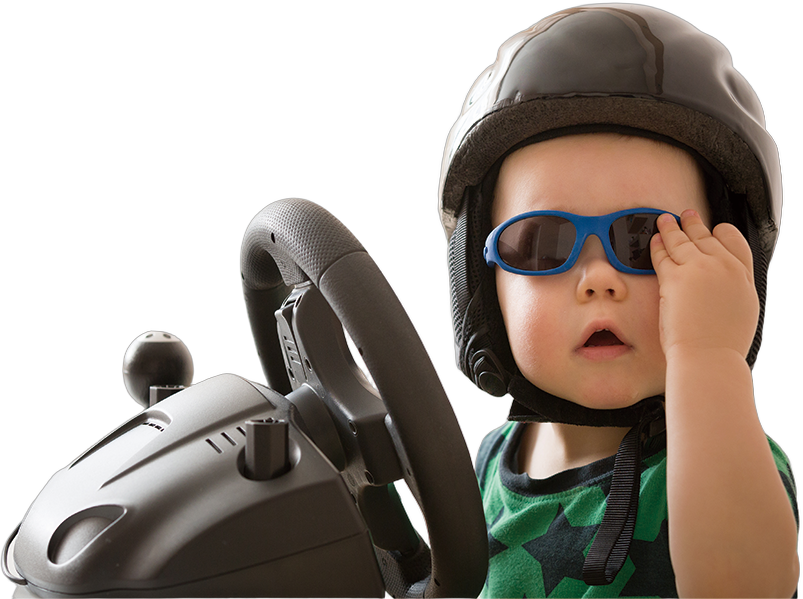
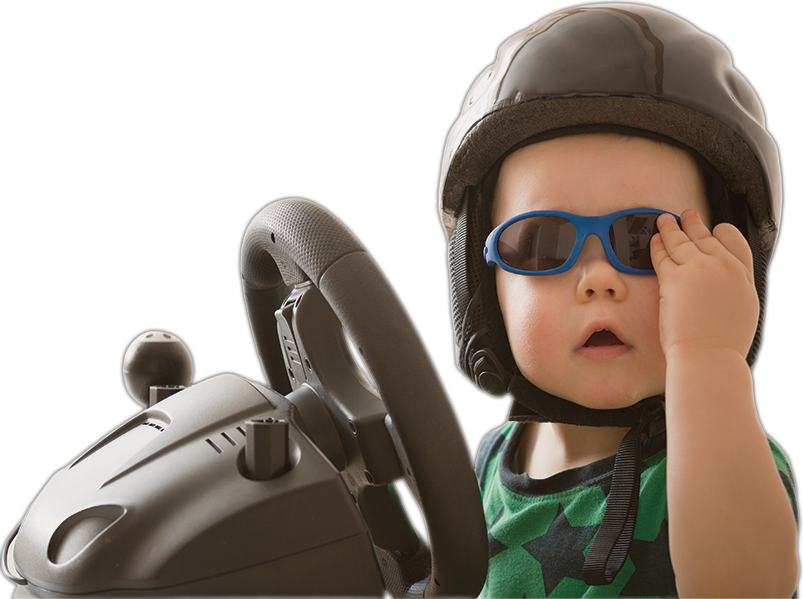
Blend the hero cutout into its background more naturally
The straight rembg cutout read as a pasted-on sticker against the
hero gradient - hard alpha edges and no color relationship to the
new background. Soften the alpha edges with a slight blur, warm-tint
the subject's RGB slightly toward the hero's mid-tone color (more in
shadows than highlights) so it picks up ambient color from the new
scene, and add a soft blurred radial glow behind the subject in CSS
so the transition from photo to gradient eases instead of cutting.

Claude-Session: https://claude.ai/code/session_01LK2AAhaCEyGtqXWWJm4WWi

diff --git a/css/style.css b/css/style.css
@@ -259,6 +259,7 @@ button { font-family: inherit; cursor: pointer; }
 .hero-stats div span { font-size: 13px; color: rgba(255,255,255,0.8); }
 
 .hero-visual {
+  position: relative;
   width: 100%;
   max-width: 460px;
   margin-left: auto;
@@ -267,13 +268,29 @@ button { font-family: inherit; cursor: pointer; }
   align-items: flex-start;
   gap: 20px;
 }
+.hero-visual::before {
+  content: "";
+  position: absolute;
+  left: -10%;
+  right: -25%;
+  top: -20%;
+  bottom: -10%;
+  background: radial-gradient(ellipse 60% 60% at 62% 42%, rgba(255,238,214,0.4), rgba(255,238,214,0) 70%);
+  filter: blur(46px);
+  pointer-events: none;
+  z-index: 0;
+}
 .hero-cutout {
+  position: relative;
+  z-index: 1;
   display: block;
   width: 100%;
   height: auto;
-  filter: drop-shadow(0 22px 34px rgba(30, 20, 10, 0.35));
+  filter: drop-shadow(0 18px 28px rgba(30, 20, 10, 0.22));
 }
 .hero-badge {
+  position: relative;
+  z-index: 1;
   background: #fff;
   color: var(--color-ink);
   padding: 14px 18px;
